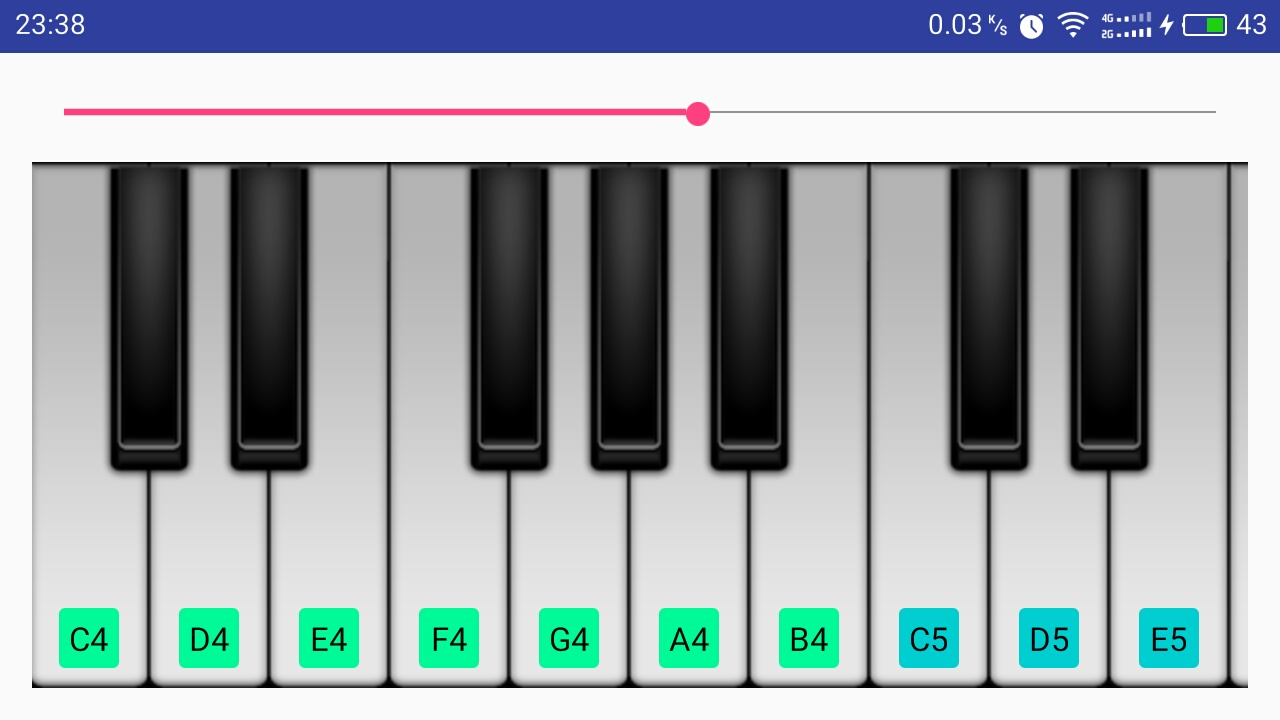
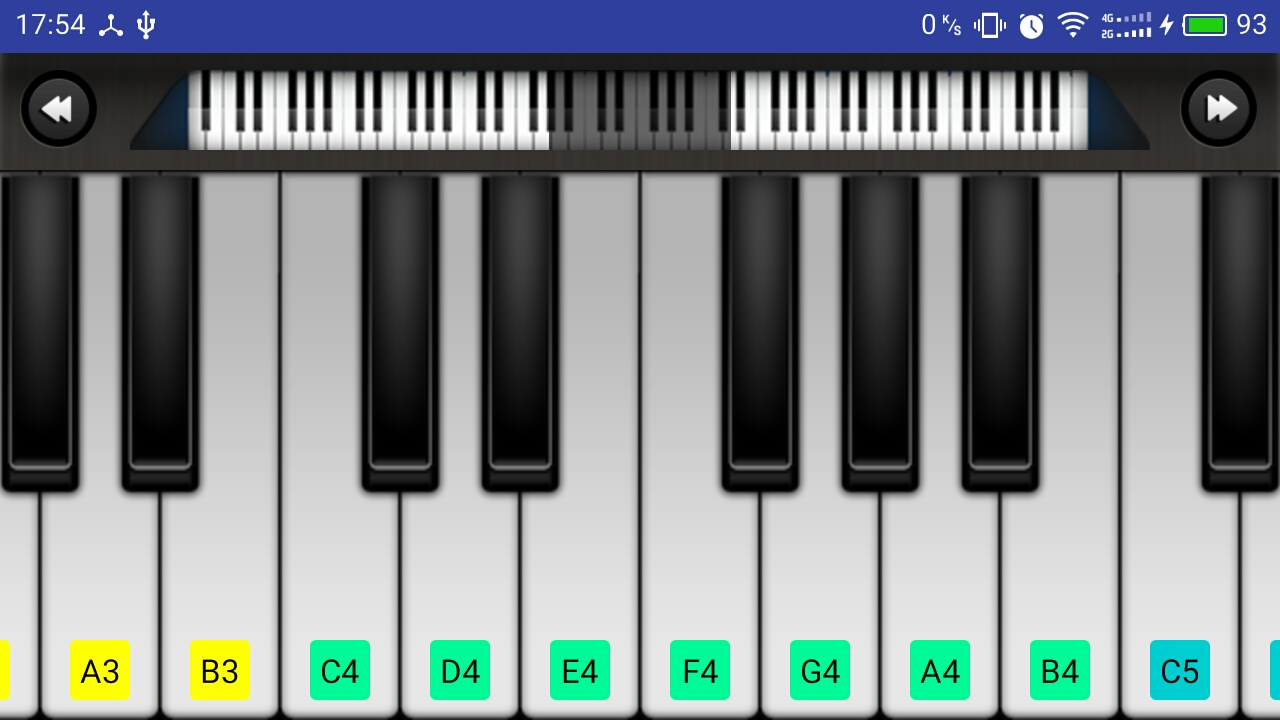
完成sample测试与修改

diff --git a/sample/src/main/java/com/chengtao/sample/MainActivity.java b/sample/src/main/java/com/chengtao/sample/MainActivity.java
@@ -1,9 +1,14 @@
 package com.chengtao.sample;
 
 import android.app.Activity;
+import android.content.Context;
 import android.content.pm.ActivityInfo;
+import android.content.res.Resources;
 import android.os.Bundle;
+import android.util.DisplayMetrics;
 import android.util.Log;
+import android.view.View;
+import android.widget.Button;
 import android.widget.SeekBar;
 import android.widget.Toast;
 
@@ -12,20 +17,27 @@ import com.chengtao.pianoview.impl.OnLoadAudioListener;
 import com.chengtao.pianoview.impl.OnPianoClickListener;
 import com.chengtao.pianoview.view.PianoView;
 
-public class MainActivity extends Activity implements OnPianoClickListener,OnLoadAudioListener ,SeekBar.OnSeekBarChangeListener{
+public class MainActivity extends Activity implements OnPianoClickListener,OnLoadAudioListener ,SeekBar.OnSeekBarChangeListener,View.OnClickListener{
     private PianoView pianoView;
     private SeekBar seekBar;
+    private Button leftArrow;
+    private Button rightArrow;
+    private int scrollProgress = 0;
+    private final static float SEEKBAR_OFFSET_SIZE = -12;
     @Override
     protected void onCreate(Bundle savedInstanceState){
         super.onCreate(savedInstanceState);
         setContentView(R.layout.activity_main);
         pianoView = (PianoView) findViewById(R.id.pv);
         seekBar = (SeekBar) findViewById(R.id.sb);
+        seekBar.setThumbOffset((int)convertDpToPixel(SEEKBAR_OFFSET_SIZE));
+        leftArrow = (Button) findViewById(R.id.iv_left_arrow);
+        rightArrow = (Button) findViewById(R.id.iv_right_arrow);
         pianoView.setOnPianoClickListener(this);
         pianoView.setOnLoadMusicListener(this);
         seekBar.setOnSeekBarChangeListener(this);
-        seekBar.setPadding(0,0,0,0);
-        Log.e("TAG","onCreate");
+        rightArrow.setOnClickListener(this);
+        leftArrow.setOnClickListener(this);
     }
 
     @Override
@@ -80,5 +92,46 @@ public class MainActivity extends Activity implements OnPianoClickListener,OnLoa
             setRequestedOrientation(ActivityInfo.SCREEN_ORIENTATION_LANDSCAPE);
         }
         super.onResume();
+    }
+
+    @Override
+    public void onClick(View view) {
+        if (scrollProgress == 0) {
+            try{
+                scrollProgress = (pianoView.getLayoutWidth() * 100) / pianoView.getPianoWidth();
+            }catch (Exception e){
+
+            }
+        }
+        int progress;
+        switch (view.getId()){
+            case R.id.iv_left_arrow:
+                if (scrollProgress == 0){
+                    progress = 0;
+                }else {
+                    progress = seekBar.getProgress() - scrollProgress;
+                    if (progress < 0){
+                        progress = 0;
+                    }
+                }
+                seekBar.setProgress(progress);
+                break;
+            case R.id.iv_right_arrow:
+                if (scrollProgress == 0){
+                    progress = 100;
+                }else {
+                    progress = seekBar.getProgress() + scrollProgress;
+                    if (progress > 100){
+                        progress = 100;
+                    }
+                }
+                seekBar.setProgress(progress);
+                break;
+        }
+    }
+    private  float convertDpToPixel(float dp){
+        Resources resources = this.getResources();
+        DisplayMetrics metrics = resources.getDisplayMetrics();
+        return dp * ((float)metrics.densityDpi / DisplayMetrics.DENSITY_DEFAULT);
     }
 }
